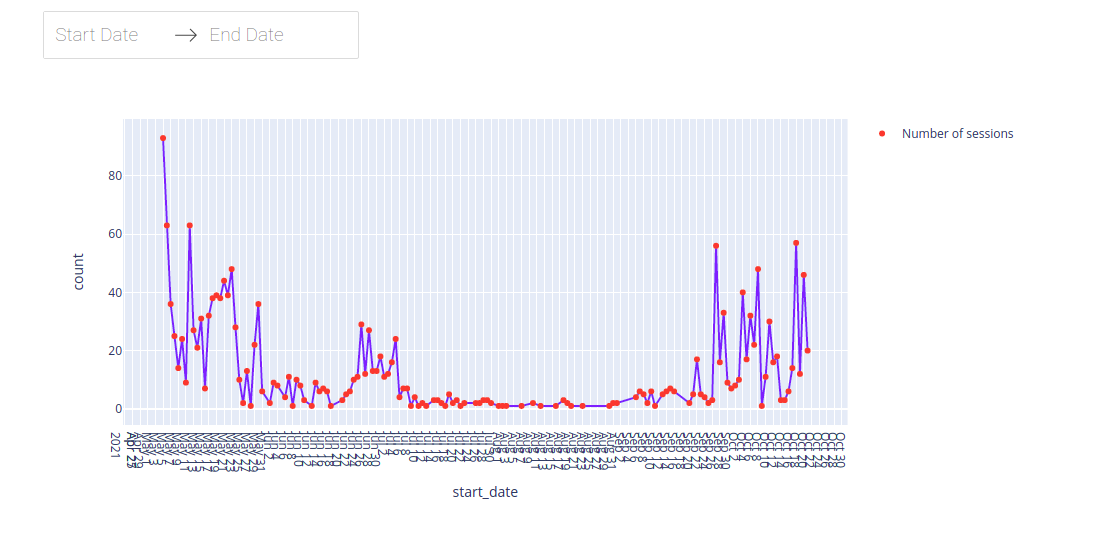
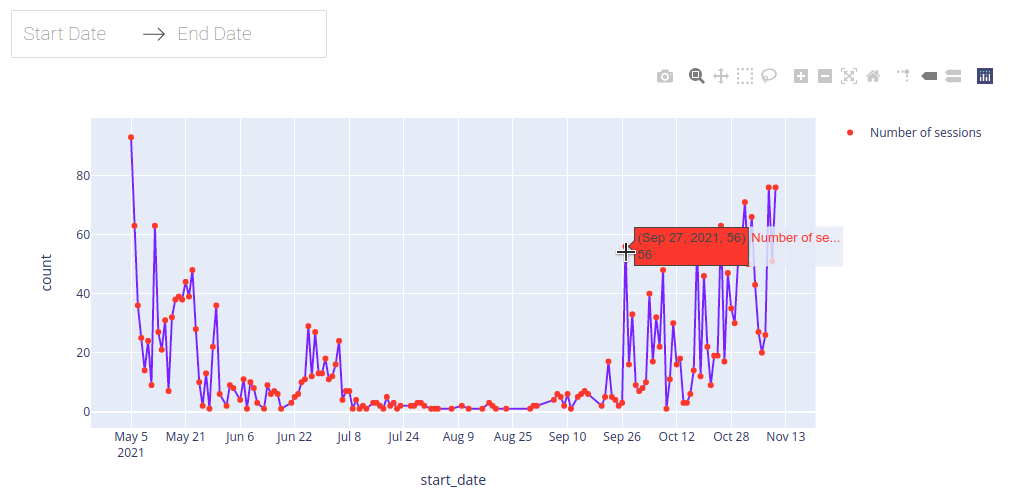
Cambios en el capitulo 4

diff --git a/TFG/chapters/analiticas.tex b/TFG/chapters/analiticas.tex
@@ -1,16 +1,18 @@
 \chapter{Analíticas de Elasticsearch y Dash}
 \label{analiticas}
-En este capítulo se explica la recogida de las diferentes sondas en Unibotics con la base de datos Elasticsearch, la visualización de la información con el \textit{framework} web Dash y la validación experimental de este proceso.
+En este capítulo se explica la recogida de las sondas en Unibotics, su posterior guardado en la base de datos Elasticsearch, la visualización de dichos datos con el \textit{framework} web Dash y la validación experimental del proceso.
 \section{Recogida de sondas}
-La primera parte de este proceso ha consistido en la recogida de diferentes sondas para lo cual se ha decidido utilizar la herramienta de Elasticsearch por las ventajas que ofrece explicadas en el capitulo 3. Para comenzar hay que instalar Elasticserach en local, se puede descargar directamente desde la página web de elastic\footnote{https://www.elastic.co/es/elasticsearch/} o a través del administrador de paquetes pip con el comando \texttt{pip install elasticsearch}.\\
+La primera parte de este proceso ha consistido en la recogida de diferentes sondas. Para realizar esta tarea, se ha decidido utilizar la herramienta de Elasticsearch por las ventajas que ofrece explicadas en el capitulo 3.\\
 
-En este proyecto se ha utilizado docker, un contenedor a nivel de sistema operativo para Elasticsearch, primero hay que descargar la imagen de Elasticsearch con la versión deseada en este caso se ha utilizado la 7.12.0, el comando para descargar la imagen es:
+En este proyecto se ha utilizado docker, un contenedor a nivel de sistema operativo para Elasticsearch. Se ha utilizado Docker debido que permite que Elasticsearch funcione en cualquier sistema operativo, y replicar la instalación en cualquier máquina es directo. Primero hay que descargar la imagen de Elasticsearch con la versión deseada en este caso se ha utilizado la 7.12.0, el comando para descargar la imagen es:
 {\footnotesize
 		\begin{verbatim}
 			docker pull docker.elastic.co/elasticsearch/elasticsearch:7.12.0
 		\end{verbatim}
 		}
+        
 Para ejecutar el contenedor con la imagen descargada se utiliza el siguiente comando:
+
 {\footnotesize
 		\begin{verbatim}
 			docker run --name=AcademyElastic -p 9200:9200 -p 9300:9300
@@ -18,12 +20,12 @@ Para ejecutar el contenedor con la imagen descargada se utiliza el siguiente com
             docker.elastic.co/elasticsearch/elasticsearch:7.12.0
 		\end{verbatim}
 		}
-        
-  Una vez ya puesto en marcha el contenedor de Elasticsearch ya tenemos nuestra base de datos donde se guardaran las sondas, para hacer solicitudes se podrá hacer mediante \textit{REST APIs}, un ejemplo sería introducir en el navegador la siguiente URL: \texttt{http://localhost:9200/}.\\
+   \newpage   
+  Una vez ya puesto en marcha el contenedor de Elasticsearch ya tenemos nuestra base de datos donde se guardaran las sondas. Para hacer solicitudes se podrá hacer mediante \textit{REST APIs}, un ejemplo sería introducir en el navegador la siguiente URL: \texttt{http://localhost:9200/}.\\
   
-  El siguiente paso es la integración de Elasticseach en el proyecto de Django, para ellos se hará uso de la librería \texttt{django-elasticsearch-dsl}, además se ha modificado el archivo de configuración del proyecto, \texttt{settings.py},  añadiendo la librería a las aplicaciones instaladas y creando una nueva variable llamada \texttt{ELASTICSEARCH\_DSL} donde se indica el servidor de Elasticsearch con el que se tiene que conectar y sincronizar.\\
+  El siguiente paso es la integración de Elasticseach en el servidor basado en Django. Para ello se hará uso de la librería \texttt{django-elasticsearch-dsl}. Además se ha modificado el archivo de configuración del proyecto, \texttt{settings.py},  añadiendo la librería a las aplicaciones instaladas y creando una nueva variable llamada \texttt{ELASTICSEARCH\_DSL}, también en \texttt{settings.py}, ya que las variables declaradas en ese fichero se pueden utilizar en cualquier parte del servidor. En esa variable se indica el servidor de Elasticsearch con el que se tiene que conectar y sincronizar.\\
   
-  Una vez ya conectados, el servidor de Django y Elasticsearch, se ha definido y configurado los índices donde se guardaran las sondas, para ellos se ha creado un nuevo archivo llamado \texttt{probe.py}. Al definir un índice, se determinan los nombres de cada dato del índice con su tipo, también se puede configurar el índice, por ejemplo poniendo el número de\textit{ shards }o el número de réplicas. Un ejemplo de la definición de un índice sería este: \\
+Una vez conectado Django con Elasticsearch se han definido y configurado los índices donde se guardaran las sondas, para ellos se ha creado un nuevo archivo llamado \texttt{probe.py}. Al definir un índice, se determinan los nombres de cada campo (información que se quiere almacenar) con el tipo de campo que es, por ejemplo si es un texto, un número, una fecha, entre otros. También se puede configurar el índice, por ejemplo poniendo el número de\textit{ shards }o el número de réplicas. Un ejemplo de la definición de un índice sería este: 
 
 \begin{lstlisting}
    from django_elasticsearch_dsl import Document, Date, Text, Double
@@ -46,7 +48,7 @@ Para ejecutar el contenedor con la imagen descargada se utiliza el siguiente com
            				'number_of_replicas': 0
         }
 \end{lstlisting} 
- \newpage
+
 Para este proyecto se han definido cuatro índices diferentes:
 
 \begin{itemize}
@@ -56,7 +58,7 @@ Para este proyecto se han definido cuatro índices diferentes:
 \item \texttt{efficacy\_log}: índice que recoge los datos sobre la evaluación de la eficacia del código de los ejercicios. Los campos son iguales que en el índice de \texttt{style\_log}.
 \end{itemize}
 
-Ya definidos los diferentes índices se importan al archivo \texttt{views.py} para poder crearlos.Las sondas de sesión se han guardado para usuarios registrados por lo cual en el momento que hacen \textit{login} se crea el índice de esta manera:
+Ya definidos los diferentes índices se importan al archivo \texttt{views.py} para poder crearlos. Las sesiones de los usuarios se guardan en el índice \texttt{session\_log} y a través de las sondas creadas, por ello podemos recoger cuando el usuario \textit{loguea} en la plataforma y cuando finaliza su actividad en ella. Se recoge la sonda de la siguiente manera:
 \\
 {\footnotesize
 \begin{verbatim}
@@ -71,7 +73,7 @@ Ya definidos los diferentes índices se importan al archivo \texttt{views.py} pa
 \end{verbatim}
 }
 \newpage
-Gracias al objeto HTTP Request que recibe el fichero \texttt{views.py} obtenemos la información del nombre del usuario, la IP y el \textit{user-agent} el cual nos dirá el sistema operativo, el navegador o el dispositivo que utiliza el usuario. Para la localización se ha creado una función que a partir de la IP muestra la ubicación. En un principio los campos de fin de sesión y duración se inicializan con la fecha actual y 0 respectivamente, una vez que el usuario haga \textit{logout} o finalice su sesión por inactividad estos campos se modificarán como se muestra a continuación:\\
+Gracias al objeto HTTP Request que recibe el fichero \texttt{views.py} obtenemos la información del nombre del usuario, la IP y el \textit{user-agent} el cual nos dirá el sistema operativo, el navegador o el dispositivo que utiliza el usuario. Para la localización se ha creado una función que a partir de la IP muestra la ubicación. Cuando el usuario \textit{loguea}, los campos  de fin de sesión y duración se inicializan con la fecha actual y 0 respectivamente, una vez que el usuario haga \textit{logout} o finalice su sesión por inactividad estos campos se modificarán como se muestra a continuación:\\
 {\footnotesize
 \begin{verbatim}
     s = Search(index="session_log").query('match', username=request.user.username) \
@@ -87,7 +89,7 @@ Gracias al objeto HTTP Request que recibe el fichero \texttt{views.py} obtenemos
 \end{verbatim}
 }
 \\
-Las sondas relativas a los ejercicios se guardan una vez accedido al ejercicio y como pasaba con las sesiones, cuando el usuario salga del ejercicio se modificarán los datos de duración y fin del ejercicio. En este punto se ha tenido en cuenta si el usuario recarga la página cuando esta en un ejercicio ya que al volver a cargar el ejercicio se crea una sonda nueva que no es necesaria por lo cual se elimina de la siguiente manera:\\
+Las sondas relativas a los ejercicios se guardan cuando el usuario accede a un ejercicio y como ocurre con las sesiones, cuando el usuario abandone el ejercicio se modificarán los datos de duración y fin del ejercicio. Se ha tenido en cuenta que al recargar un ejercicio en el que el usuario ya se encontraba, no se cree una sonda nueva y se tenga en cuenta la primera sonda creada para dicho ejercicio. Las sondas no deseadas que se han creado se eliminan de la siguiente forma:\\
 \\
 {\footnotesize
 \begin{verbatim}
@@ -100,26 +102,26 @@ Las sondas relativas a los ejercicios se guardan una vez accedido al ejercicio y
 \end{verbatim}
 }
 \\
-Para las sondas de la evaluación del estilo del código ya había incorporado en la plataforma un botón que evalúa el estilo donde se recoge la puntuación para Elasticsearch, pero en el caso de la sonda de evaluación de la eficacia del código se ha tenido que crear un nuevo botón el cual ejecuta el código como si fuera el botón de \textit{play} y al cabo de un tiempo determinado para cada ejercicio recoge la nota obtenida. En el caso de que el usuario vuelva a pulsar el botón no se guardará la sonda.
+Cada ejercicio que se encuentra en Unibotics dispone de un botón de evaluación automática de estilo, donde se dan unas recomendaciones para mejorar el estilo del código del usuario con una puntuación. La puntuación es recogida en el índice de \texttt{style\_log}. Para poder recoger la puntuación recibida en la evaluación de eficacia, se ha creado un nuevo botón en los ejercicios. Una vez pulsado el botón, empieza a ejecutar el código durante un tiempo determinado según el ejercicio. Pasado ese tiempo se obtiene la nota obtenida del ejercicio y se guarda en el índice de \texttt{efficacy\_log}. Si el usuario pulsa dos veces al botón la sonda no se guardará.\\
 
 
 En este proceso de recogida de sondas y su grabación ha sido muy útil la utilización de la API que proporciona Elasticsearch para poder depurar y comprobar los datos que se estaban almacenando. Utilizando por ejemplo la URL \texttt{http://127.0.0.1:9200/session\_log/\_search/?size=10000&pretty} se comprueba las sondas de sessiones.\\
 
-Por último se creó una base de datos de prueba de Elasticsearch para poder comenzar a trabajar antes de tener los datos reales los cuales llevan tiempo recoger. La base de datos Elasticsearch dummy se ha creado gracias a las librerías de python Faker\footnote{https://faker.readthedocs.io/en/master/} y Tornado\footnote{https://www.tornadoweb.org/en/stable/} en ella se puede modificar las sondas como por ejemplo el número de sondas, de réplicas o de \textit{shards}. Esto ayudará a futuros desarrolladores a utilizar la base de datos de Elasticsearch. En la figura\ref{fig:dummy} se muestra como ejemplo el resultado de la sonda de evaluación de estilo de la base de datos de prueba.
+Para comprobar el funcionamiento de Elasticsearch se generaron datos de prueba para poder comenzar a trabajar antes de tener los datos reales los cuales llevan tiempo recoger. La base de datos Elasticsearch dummy se ha creado gracias a las librerías de python Faker\footnote{https://faker.readthedocs.io/en/master/} y Tornado\footnote{https://www.tornadoweb.org/en/stable/} en ella se puede modificar las sondas como por ejemplo el número de sondas, de réplicas o de \textit{shards}. Esto ayudará a futuros desarrolladores a utilizar la base de datos de Elasticsearch. En la figura\ref{fig:dummy} se muestra como ejemplo el resultado de la sonda de evaluación de estilo de la base de datos de prueba.
 
 
 \begin{figure}[H]
     \centering
-    \includegraphics[width=6cm, keepaspectratio]{img/dummy.png}
+    \includegraphics[width=5cm, keepaspectratio]{img/dummy.png}
     \caption{Elasticsearch dummy}
     \label{fig:dummy}
 \end{figure}
 
 \section{Visualización de la información}
 
-Dash es un \textit{framework} web que ayuda a la creación de aplicaciones para poder hacer análisis como se explica en el capítulo 3. En este Trabajo de fin de grado se ha decidió utilizar esta herramienta para la visualización de las sondas recogidas en Elasticsearch.Estas visualizaciones se unen con la plataforma de Unibotics a través de un enlace en el menú de esta.\\
+Dash es un \textit{framework} web que permite crear tableros web interactivos con visualizaciones dinámicas, para poder hacer análisis como se explica en el capítulo 3. En este Trabajo de fin de grado se ha decidió utilizar esta herramienta para la visualización de las sondas recogidas en Elasticsearch.\\
 
-Una vez accedemos a la aplicación se encuentra una barrera de seguridad donde solo podrán entrar los usuarios registrados en la plataforma por lo cual habrá que iniciar sesión. Una vez iniciada la sesión gracias a la base de datos MySQL que ya tenía la plataforma, se sabe si el usuario es un administrador o no. Esto hace que según si eres administrador o no se muestre un menú u otro, en el caso de los administradores podrán ver la información de todas las sondas y en el caso de que no lo seas solo se podrá ver las puntuaciones que ha recibido dicho usuario en los diferentes ejercicios, tanto de estilo como de eficacia. En la figura \ref{fig:menu} se puede ver el menú que un administrador vería.
+Sólo los usuarios registrados en Unibotics podrán acceder a las visualizaciones y, dependiendo del tipo de usuario, tendrán disponibles unas visualizaciones u otras. Para iniciar sesión, se ha hecho uso de los usuarios ya guardados en la base de datos MYSQL de la que depende Django en la que se encuentra la información sobre el tipo de usuario (staff, admin, user...). En el caso de los administradores podrán ver la información de todas las sondas, mientras que un usuario de Unibotics solo podrá acceder a las puntuaciones de estilo y de eficacia obtenidas en cada ejercicio. En la figura \ref{fig:menu} muestra el menú disponible para los administradores.
 
 \begin{figure}[H]
     \centering
@@ -128,10 +130,10 @@ Una vez accedemos a la aplicación se encuentra una barrera de seguridad donde s
     \label{fig:menu}
 \end{figure}
 
-
+\newpage
 Gracias a las bibliotecas de Dash mencionadas en el capítulo 3 se ha dado estilo y formato a la aplicación, también se ha hecho uso de la \textit{cookies }del navegador para comprobar si se esta autorizado y si es un administrador de la plataforma.\\
 
-Como Dash trabaja con \textit{Dataframes} el primer paso al crear las diferentes gráficas ha sido la conversión de los datos almacenados en Elasticsearch a dataframes gracias a la biblioteca de Pandas. Un ejemplo de la realización de esta conversión es:
+Dash trabaja con dataframes, por lo que es necesario realizar una primera transformación de los datos de Elasticsearch a esta estructura, gracias a la biblioteca de Pandas. Un ejemplo de la realización de esta conversión es:
 
 {\footnotesize
 \begin{verbatim}
@@ -142,7 +144,7 @@ Como Dash trabaja con \textit{Dataframes} el primer paso al crear las diferentes
 }
 \\
 
-Con la biblioteca \texttt{dash\_core\_components} se ha creado los filtros que algunas de las gráficas poseen. El primer filtro es por fechas, con los callbacks que Dash proporciona se modificará las gráficas según las fechas introducidas, puede ser un filtrado entre dos fechas o una única fecha de comienzo o de final. El código de filtrado ha sido:
+Con la biblioteca \texttt{dash\_core\_components} se han creado los filtros que algunas de las gráficas poseen. Estos filtros de forma dinámica cambian las visualizaciones en base a dicho filtrado. Uno de los filtros que más se utilizado es el filtro por fechas. Estableciendo una fecha de inicio o de fin o ambas es posible conocer la situación de Unibotics en un periodo de tiempo concreto. El código de filtrado ha sido:
 
 {\footnotesize
 \begin{verbatim}
@@ -156,7 +158,7 @@ elif end_date is not None:
 }
 \\
 
-Otro filtro también presente en algunas gráficas como en la actividad es el filtro de los usuarios. Este filtro se encuentra además en las gráficas de las evaluaciones de estilo y eficacia del código pero solo para los administradores, así podrán ver las puntuaciones de los diferentes usuarios. Para este filtro se hace uso de las sondas de sesiones (convertidas en dataframes) recogiendo los nombres de los usuarios de forma única y en el caso que también se quiera ver todos los valores de los usuarios en conjunto se ha añadido una opción de 'Total'. El código es el siguiente:
+Otro filtro recurrente en la mayoría de las visualizaciones es el filtro por usuario. Este filtro se encuentra, además en las gráficas de las evaluaciones de estilo y eficacia del código pero solo para los administradores, así podrán ver las puntuaciones de los diferentes usuarios. Para este filtro se hace uso de las sondas de sesiones, recogiendo los nombres de los usuarios de forma única y añadiendo un 'Total' en los casos que se quiera visualizar las sondas de todos los usuarios. En resumen el filtro podrá filtrar por usuario único, un grupo de usuarios o por el total de los usuarios, \texttt{df = df[df.username.isin(user)]} . El código para conseguir los nombre de los usuarios y añadir la opción de 'Total', es el siguiente:
 \newpage
 {\footnotesize
 \begin{verbatim}
@@ -178,7 +180,7 @@ Otro filtro también presente en algunas gráficas como en la actividad es el fi
     \label{fig:filtros}
 \end{figure}
 
-Cuando ya se tienen los datos que se quieren visualizar en formato Dataframe, Dash hace uso de plotly para la creación de las gráficas. Plotly ofrece una gran variedad de gráficas que se pueden utilizar en Dash. Adicionalmente se puede combinar varias gráficas en los mismos ejes, haciendo más sencillo la correlación entre datos. El código, por ejemplo, para crear la gráfica de número de sesiones por día es:\\
+Dash utiliza el modulo Plotly para generar las visualizaciones. Plotly ofrece una gran variedad de gráficas que se pueden utilizar en Dash. Adicionalmente se puede combinar varias gráficas en los mismos ejes, haciendo más sencilla la correlación entre datos. El código, por ejemplo, para crear la gráfica de número de sesiones por día es:\\
 {\footnotesize
 \begin{verbatim}
 fig = px.line(df, x='start_date', y='count')
@@ -195,20 +197,21 @@ return fig
 
 \section{Validación experimental}
 
-En esta sección se muestra los resultados finales de las analíticas con datos reales de la plataforma de Unibotics, donde se verán las diferentes gráficas creadas tanto para administradores como para los usuarios, así como una explicación de lo que representan.\\
+En esta sección se detallan los resultados finales de las analíticas con datos reales de la plataforma de Unibotics, donde se muestran las diferentes gráficas creadas tanto para administradores como para los usuarios, así como una explicación de lo que representan.\\
 
-La primera gráfica creada se muestra en la figura \ref{fig:sesion} , donde se esta representando en el eje x el tiempo y en el eje y el número de sesiones, dando como resultado una gráfica de linea a la cual se le ha añadido puntos para una mejor visualización. En resumen se pueden ver el numero de sesiones por día independientemente del usuario. La gráfica nos va a dar información de cuando la plataforma esta más visitada, por ejemplo,  en este caso se puede ver como en verano ha habido una bajada de inicios de sesión.
+La primera gráfica creada se muestra en la figura \ref{fig:sesion} , donde se representa en el eje x el tiempo y en el eje y el número de sesiones, dando como resultado una gráfica de linea con énfasis en los puntos para una mejor visualización. Esta gráfica muestra el número de sesiones únicas por día. La gráfica muestra que días ha habido más \textit{logings}, viéndose en este ejemplo como en los meses de verano dicho número se ha reducido.
 
 
 
 \begin{figure}[H]
     \centering
-    \includegraphics[width=19cm, keepaspectratio]{img/sesion.png}
+    \includegraphics[width=18cm, keepaspectratio]{img/sesion.png}
     \caption{Gráfico sesiones por día}
     \label{fig:sesion}
 \end{figure}
+En todas las gráficas de Dash si se pone el cursor sobre uno de los puntos se puede ver la información con mayor detalle, como se muestra en la figura \ref{fig:sesion}. Igualmente Dash añade varias opciones para interactuar con la gráfica, por ejemplo, se puede descargar la gráfica, hacer \textit{zoom} o seleccionar una parte de ella. 
 \newpage
-La figura \ref{fig:time} muestra una gráfica de barras donde en el eje x esta el tiempo y en el eje y la duración total en minutos que los usuarios han estado en la plataforma. Se puede ver que en los mismos ejes hay otra gráfica de linea que señala la media por día. Aquí podemos comprobar que a veces la media coincide con la duración total debido a que solo ha tenido que haber una sesión en ese día.
+La figura \ref{fig:time} muestra una gráfica de barras en la cual se representa el tiempo mediante el eje x y la duración total de la sesión de los usuarios en minutos en el eje y. Además, se ha incluido una media que representa la duración media de las sesiones. Aquí podemos comprobar que a veces la media coincide con la duración total debido a que solo ha tenido que haber una sesión en ese día.
 
 
 
@@ -218,7 +221,7 @@ La figura \ref{fig:time} muestra una gráfica de barras donde en el eje x esta e
     \caption{Gráfico de tiempo en Unibotics}
     \label{fig:time}
 \end{figure}
-Esta gráfica se puede filtrar tanto por fechas como por usuarios, pudiendo ver el tiempo dedicado de un usuario y la media total del tiempo que usa Unibotics como se puede ver en la figura \ref{fig:time_user}.
+Esta gráfica se puede filtrar tanto por fechas como por usuarios, pudiendo ver el tiempo dedicado de un usuario y la media total del tiempo que usa Unibotics dicho usuario, como se puede ver en la figura \ref{fig:time_user}.
 
 \begin{figure}[H]
     \centering
@@ -226,9 +229,7 @@ Esta gráfica se puede filtrar tanto por fechas como por usuarios, pudiendo ver 
     \caption{Gráfico de tiempo en Unibotics de un usuario}
     \label{fig:time_user}
 \end{figure}
-
-La siguiente gráfica circular mostrada en la figura \ref{fig:browser} muestra desde que navegador los usuarios utilizan Unibotics en formato porcentaje con un filtro de fechas. En este caso se ve que una gran parte de inicio de sesiones es a través del navegador de Chrome.
-
+La figura \ref{fig:browser} muestra una gráfica con los distintos navegadores que utilizan los usuarios para acceder a Unibotics,  en formato porcentaje. En este caso se ve que una gran parte de inicio de sesiones es a través del navegador de Chrome.
 
 
 \begin{figure}[H]
@@ -238,7 +239,7 @@ La siguiente gráfica circular mostrada en la figura \ref{fig:browser} muestra d
     \label{fig:browser}
 \end{figure}
 \newpage
-La gráfica para saber el sistema operativo que utilizan los usuarios es del mismo estilo que la gráfica de los navegadores como se puede ver en la figura \ref{fig:os}. Ambas gráficas tienen filtro por fechas.
+Se ha creado una gráfica similar a la anterior para representar los Sistemas Operativos utilizados por los usuarios que acceden a Unibotics, como se puede ver en la figura \ref{fig:os}. Ambas gráficas tienen filtro por fechas.
 
 
 \begin{figure}[H]
@@ -248,7 +249,7 @@ La gráfica para saber el sistema operativo que utilizan los usuarios es del mis
     \label{fig:os}
 \end{figure}
 \newpage
-En la figura \ref{fig:mundo} se muestra un mapa geográfico donde cada punto es el lugar donde los usuarios inician sesión. El tamaño de los puntos depende de la cantidad de sesiones, cuanto mayor sea el punto más sesiones hay. A la derecha se encuentra una leyenda con los países, se puede seleccionar uno o varios países en la leyenda para que solo se vean ellos en el mapa. Se puede filtrar por fechas.
+En la figura \ref{fig:mundo} se muestra un mapa geográfico con la localización de los usuarios que acceden a Unibotics. El tamaño de los puntos depende de la cantidad de sesiones, cuanto mayor sea el punto más sesiones hay. A la derecha se encuentra una leyenda con los países, se puede seleccionar uno o varios países en la leyenda para que solo se vean ellos en el mapa. Se puede filtrar por fechas.
 
 
 
@@ -269,7 +270,7 @@ En la siguiente gráfica que se ve en la figura \ref{fig:activity} representa un
     \label{fig:activity}
 \end{figure}
 \newpage
-La última gráfica única para administradores que se muestra en la figura \ref{fig:activity}, es la de usuarios, donde se representa el número total de usuarios que son activos, el número de usuarios que han sido activos en los últimos 2 meses, una gráfica de linea donde se ven el número de registros por cada día, otra gráfica con los registros acumulados por días y la última gráfica se muestra los usuarios activos en los últimos 2 meses, es decir cada día se comprueba cuantos usuarios han iniciado sesión desde 2 meses atrás hasta ese día concretamente. Cada una de estas gráficas contiene su propio filtrado por fechas.
+Los administradores tienen la opción de poder ver el número total de usuarios que son activos, el número de usuarios que han sido activos en los últimos 2 meses, en formato número. Además se muestra las gráficas de linea de registros por cada día, registros acumulados por días y usuarios activos en los últimos 2 meses. Cada día se comprueba cuantos usuarios han iniciado sesión desde 2 meses atrás hasta ese día concretamente. Cada una de estas gráficas contiene su propio filtrado por fechas. 
 
 \begin{figure}[H]
     \centering
@@ -279,7 +280,7 @@ La última gráfica única para administradores que se muestra en la figura \ref
 \end{figure}
 
 \newpage
-Las siguientes gráficas son las puntuaciones de estilo y eficacia donde los usuarios podrán ver las suyas y los administradores las de cualquier usuario. Actualmente las evaluaciones solo están disponibles en cuatro ejercicios representadas en una gráfica donde cada punto es una nota recibida. La gráfica mostrada en la figura \ref{fig:score} es un ejemplo de las notas de estilo de un usuario de la base de datos de prueba en el ejercicio \textit{follow\_line}. Las gráficas de los demás ejercicios son iguales como las de las puntuaciones de eficacia.
+Las siguientes gráficas son las puntuaciones de estilo y eficacia que podrán ser vistas tanto por los usuarios (que pueden acceder a sus puntuaciones) como por los administradores (que pueden acceder a las puntuaciones de todos los usuarios).  Actualmente las evaluaciones solo están disponibles en cuatro ejercicios representadas en una gráfica, en la que cada punto es una evaluación solicitada por el usuario. Las gráficas mostradas en las figuras \ref{fig:score} y \ref{fig:score_efficacy}  son un ejemplo de las notas de estilo y eficacia de un usuario de la base de datos de prueba en el ejercicio \textit{follow\_line}. Las gráficas de los demás ejercicios son iguales. como las de las puntuaciones de eficacia.
 
 
 
@@ -290,7 +291,13 @@ Las siguientes gráficas son las puntuaciones de estilo y eficacia donde los usu
     \label{fig:score}
 \end{figure}
 
-En todas estas gráficas se pueden ampliar, disminuir o pasar el cursor sobre alguno de sus puntos dándote una mayor información.
+
+\begin{figure}[H]
+    \centering
+    \includegraphics[width=17cm, keepaspectratio]{img/score_efficacy.png}
+    \caption{Gráfica de puntuación de eficacia}
+    \label{fig:score_efficacy}
+\end{figure}
 
 
 
